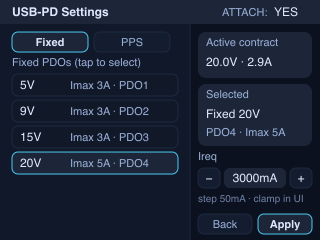
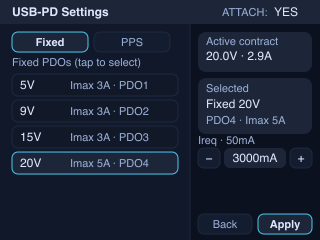
docs: refine PD settings mocks

Changed region(s): [[0.5938, 0.1458, 1.0, 0.8458]]

diff --git a/docs/plan/0013:usb-pd-pps-and-fixed-settings/PLAN.md b/docs/plan/0013:usb-pd-pps-and-fixed-settings/PLAN.md
@@ -101,6 +101,10 @@ UI mock（320×240 PNG）：
 
 ![PD settings (PPS)](../../assets/usb-pd-settings-panel/pd-settings-pps.png)
 
+### PPS 模式（选择并编辑 Ireq）
+
+![PD settings (PPS, Ireq selected)](../../assets/usb-pd-settings-panel/pd-settings-pps-ireq-selected.png)
+
 ### 所选能力不可用（Apply 禁用）
 
 ![PD settings (Unavailable)](../../assets/usb-pd-settings-panel/pd-settings-unavailable.png)
